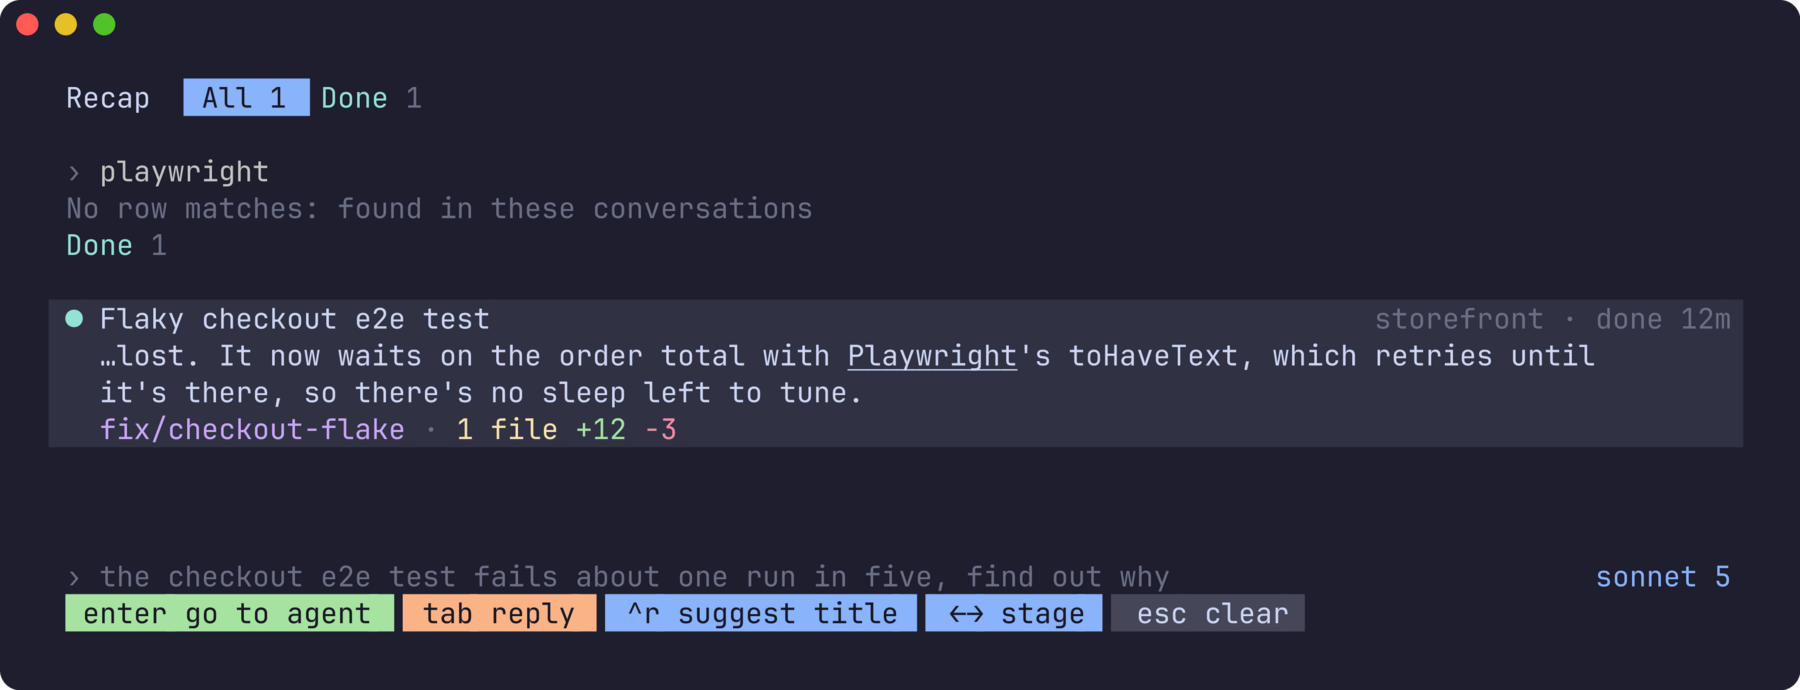
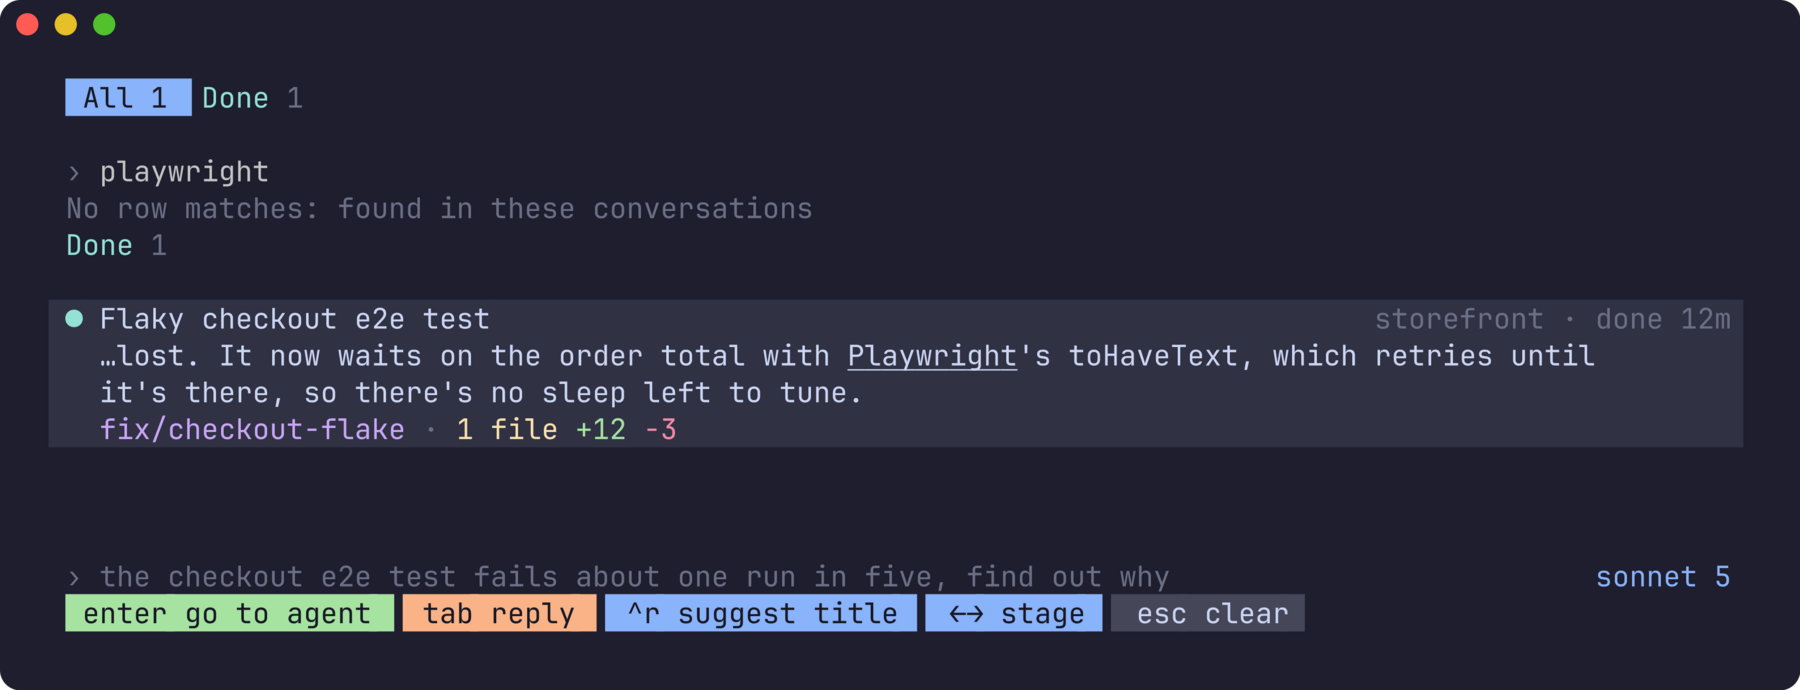
feat: "Recap" is no longer written before the tabs
The popup's border says it already.

Changed region(s): [[0.0311, 0.0913, 0.2178, 0.1826]]

diff --git a/stage.go b/stage.go
@@ -176,24 +176,22 @@ func (m model) stageTabs() []stageTab {
 	return tabs
 }
 
-// tabBar is the popup's first line: its name, then the stages as tabs, each
-// in its colour with its count, the one shown as a pill. Too wide for the
-// popup, the name goes, then the labels shorten.
+// tabBar is the popup's first line: the stages as tabs, each in its colour
+// with its count, the one shown as a pill. Too wide for the popup, the
+// labels shorten.
 func (m model) tabBar() (string, []stageTab) {
 	tabs := m.stageTabs()
 	var line string
-	for _, form := range []struct{ name, short bool }{{true, false}, {false, false}, {false, true}} {
-		line = ""
-		if form.name {
-			line = styleHeader.Render(" Recap ") + " "
-		}
+	// No name before them: the popup's border has it.
+	for _, short := range []bool{false, true} {
+		line = " "
 		x := lipgloss.Width(line)
 		for i, t := range tabs {
 			label, style := t.stage.label(), t.stage.style()
 			if t.stage == stageAll {
 				label, style = "All", styleTabOn
 			}
-			if form.short {
+			if short {
 				label = t.stage.short()
 			}
 			n := strconv.Itoa(t.n)

diff --git a/tui_test.go b/tui_test.go
@@ -98,7 +98,7 @@ func TestTheViewShowsStatusTitleAndRecap(t *testing.T) {
 	m.height = 50 // room for every agent and its stage's heading
 	v := ansi.Strip(m.View())
 	for _, want := range []string{
-		"Recap   All 7  Needs you 1  Done 1  Idle 2  Working 2  In review 1",
+		"All 7  Needs you 1  Done 1  Idle 2  Working 2  In review 1",
 		"Needs you 1", "Done 1", "Idle 2", "Working 2", "In review 1",
 		"◉ Move billing webhooks to v2 events", "billing · waiting 2m",
 		"billing/webhooks-v2 · 6 files +214 −58 ↑2 · 4/5 tasks · BIL-207 In Progress · #412",

diff --git a/CHANGELOG.md b/CHANGELOG.md
@@ -1,5 +1,10 @@
 # Changelog
 
+## 0.6.1 - 2026-10-12
+
+- **"Recap" is no longer written before the tabs**: the popup's border
+  says it already.
+
 ## 0.6.0 - 2026-10-12
 
 Recaps for other agents. `agents` in `config.json` lists the ones recapped,
